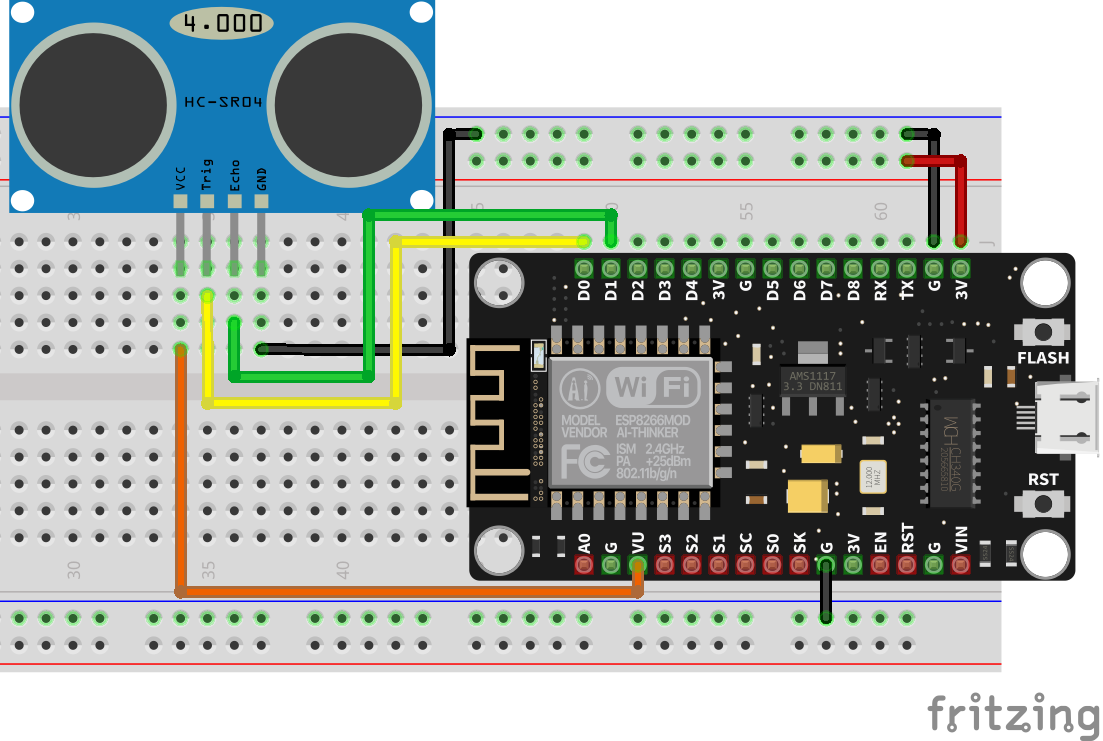
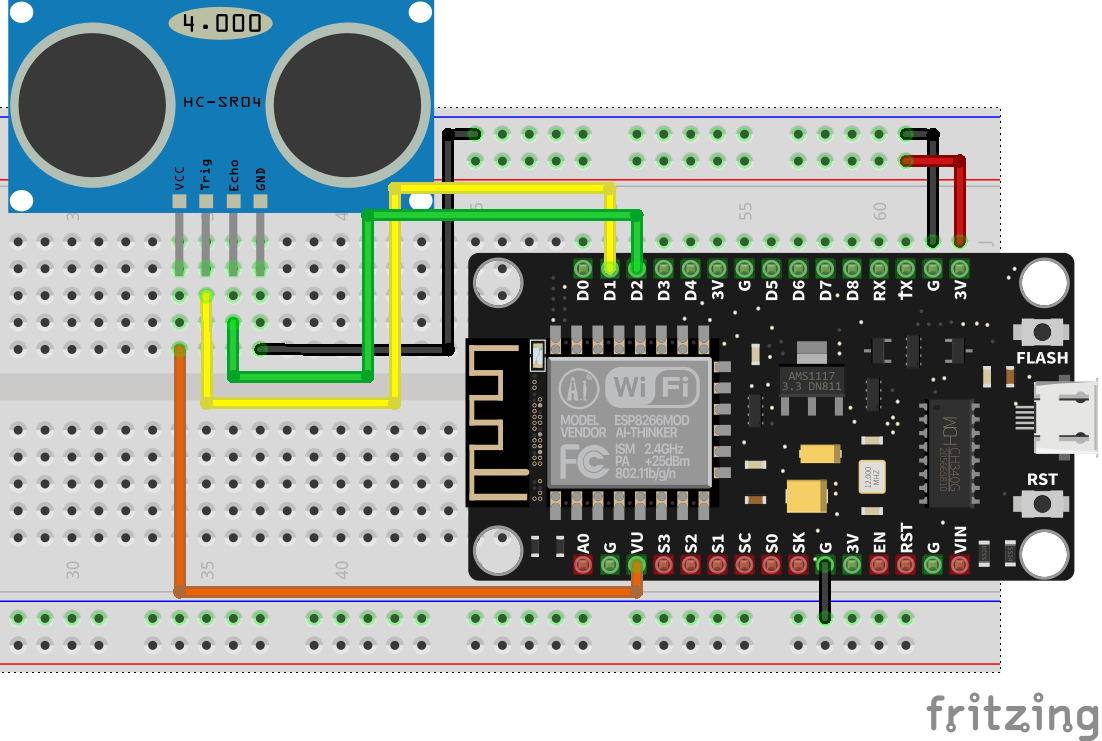
fix: schematic ultrasonic

diff --git a/docs/ESP8266/10_ejemplos_sensore_digitales.md b/docs/ESP8266/10_ejemplos_sensore_digitales.md
@@ -134,16 +134,16 @@ d.humidity()    # eg. 41.3 (% RH)
             sensor.measure()# mide el ambiente, siempre se debe mandar a llamar para generar los datos
             value_temperature = sensor.temperature() # se obtiene el valor de la temperatura
             value_humidity = sensor.humidity()    # se obtiene el valor de la humedad relativa
-            
+
             print("Temp:",value_temperature,"C")
             print("Humedad:",value_humidity,"%")
-            
+
             sleep(1) #esperamos 1 seg para la siguiente lectura de las variables ambientales
         ```
 
-        
+
 !!! example "Termómetro Celsius/Fahrenheit DTH11"
-    - **Descripción:** 
+    - **Descripción:**
     - **Materiales:**
         - 1 Sensor DTH11
     - **Circuito:** <br> ![dth11](imgs/dth11_1.png)
@@ -159,10 +159,10 @@ d.humidity()    # eg. 41.3 (% RH)
             sensor.measure()
             celsius = sensor.temperature() # se obtiene el valor de la temperatura
             fahrenheit = (celsius * 1.8) + 32
-            
+
             print("Temp Celsius:", celsius, " C") # mando a la terminal la temp en Celsius
             print("Temp Fahrenheit:", fahrenheit, " F") # mando a la terminal la temp en Fahrenheit
-            
+
             sleep(1) #esperamos 1 seg para la siguiente lectura de las variables ambientales
         ```
 
@@ -180,10 +180,10 @@ El modulo del sensor ultrasónico tiene 2 pines de control, con un activa sun fu
 
 
 !!! warning
-    Este modulo debe ser alimentado con 5V para su correcto funcionamiento
+    Este módulo debe ser alimentado con 5V para su correcto funcionamiento, usa la salida de 5V del ESP o una fuente externa
 
 !!! example "Midiendo distancia con ultrasónico"
-    - **Descripción:** 
+    - **Descripción:**
     - **Materiales:**
         - 1 Sensor Ultrasonico HC-SR04
     - **Circuito:** <br> ![sr04](imgs/ultrasonic_base.png)
@@ -194,13 +194,14 @@ El modulo del sensor ultrasónico tiene 2 pines de control, con un activa sun fu
 
         trigger_pin = 5
         echo_pin = 4
-            
+
         sensor = Ultrasonic(trigger_pin, echo_pin)
         sleep(1)
 
         while True:
-            
+
             print("Distancia:", sensor.distance_in_cm(),"cm")
-            sleep(1) 
+            sleep(1)
         ```
     - **Descargar** modulo [Ultrasonic.py](imgs/Ultrasonic.py) y colocarlo dentro de la placa. [Fuente del modulo en github](https://github.com/skgsergio/MicropythonLibs/blob/master/Ultrasonic/ultrasonic.py)
+    - **Nota:** Si tu placa no tiene el pin **VV**, entonces tiene el pin **Vin**, es una salida de 5V o en su defecto usa una fuente externa
